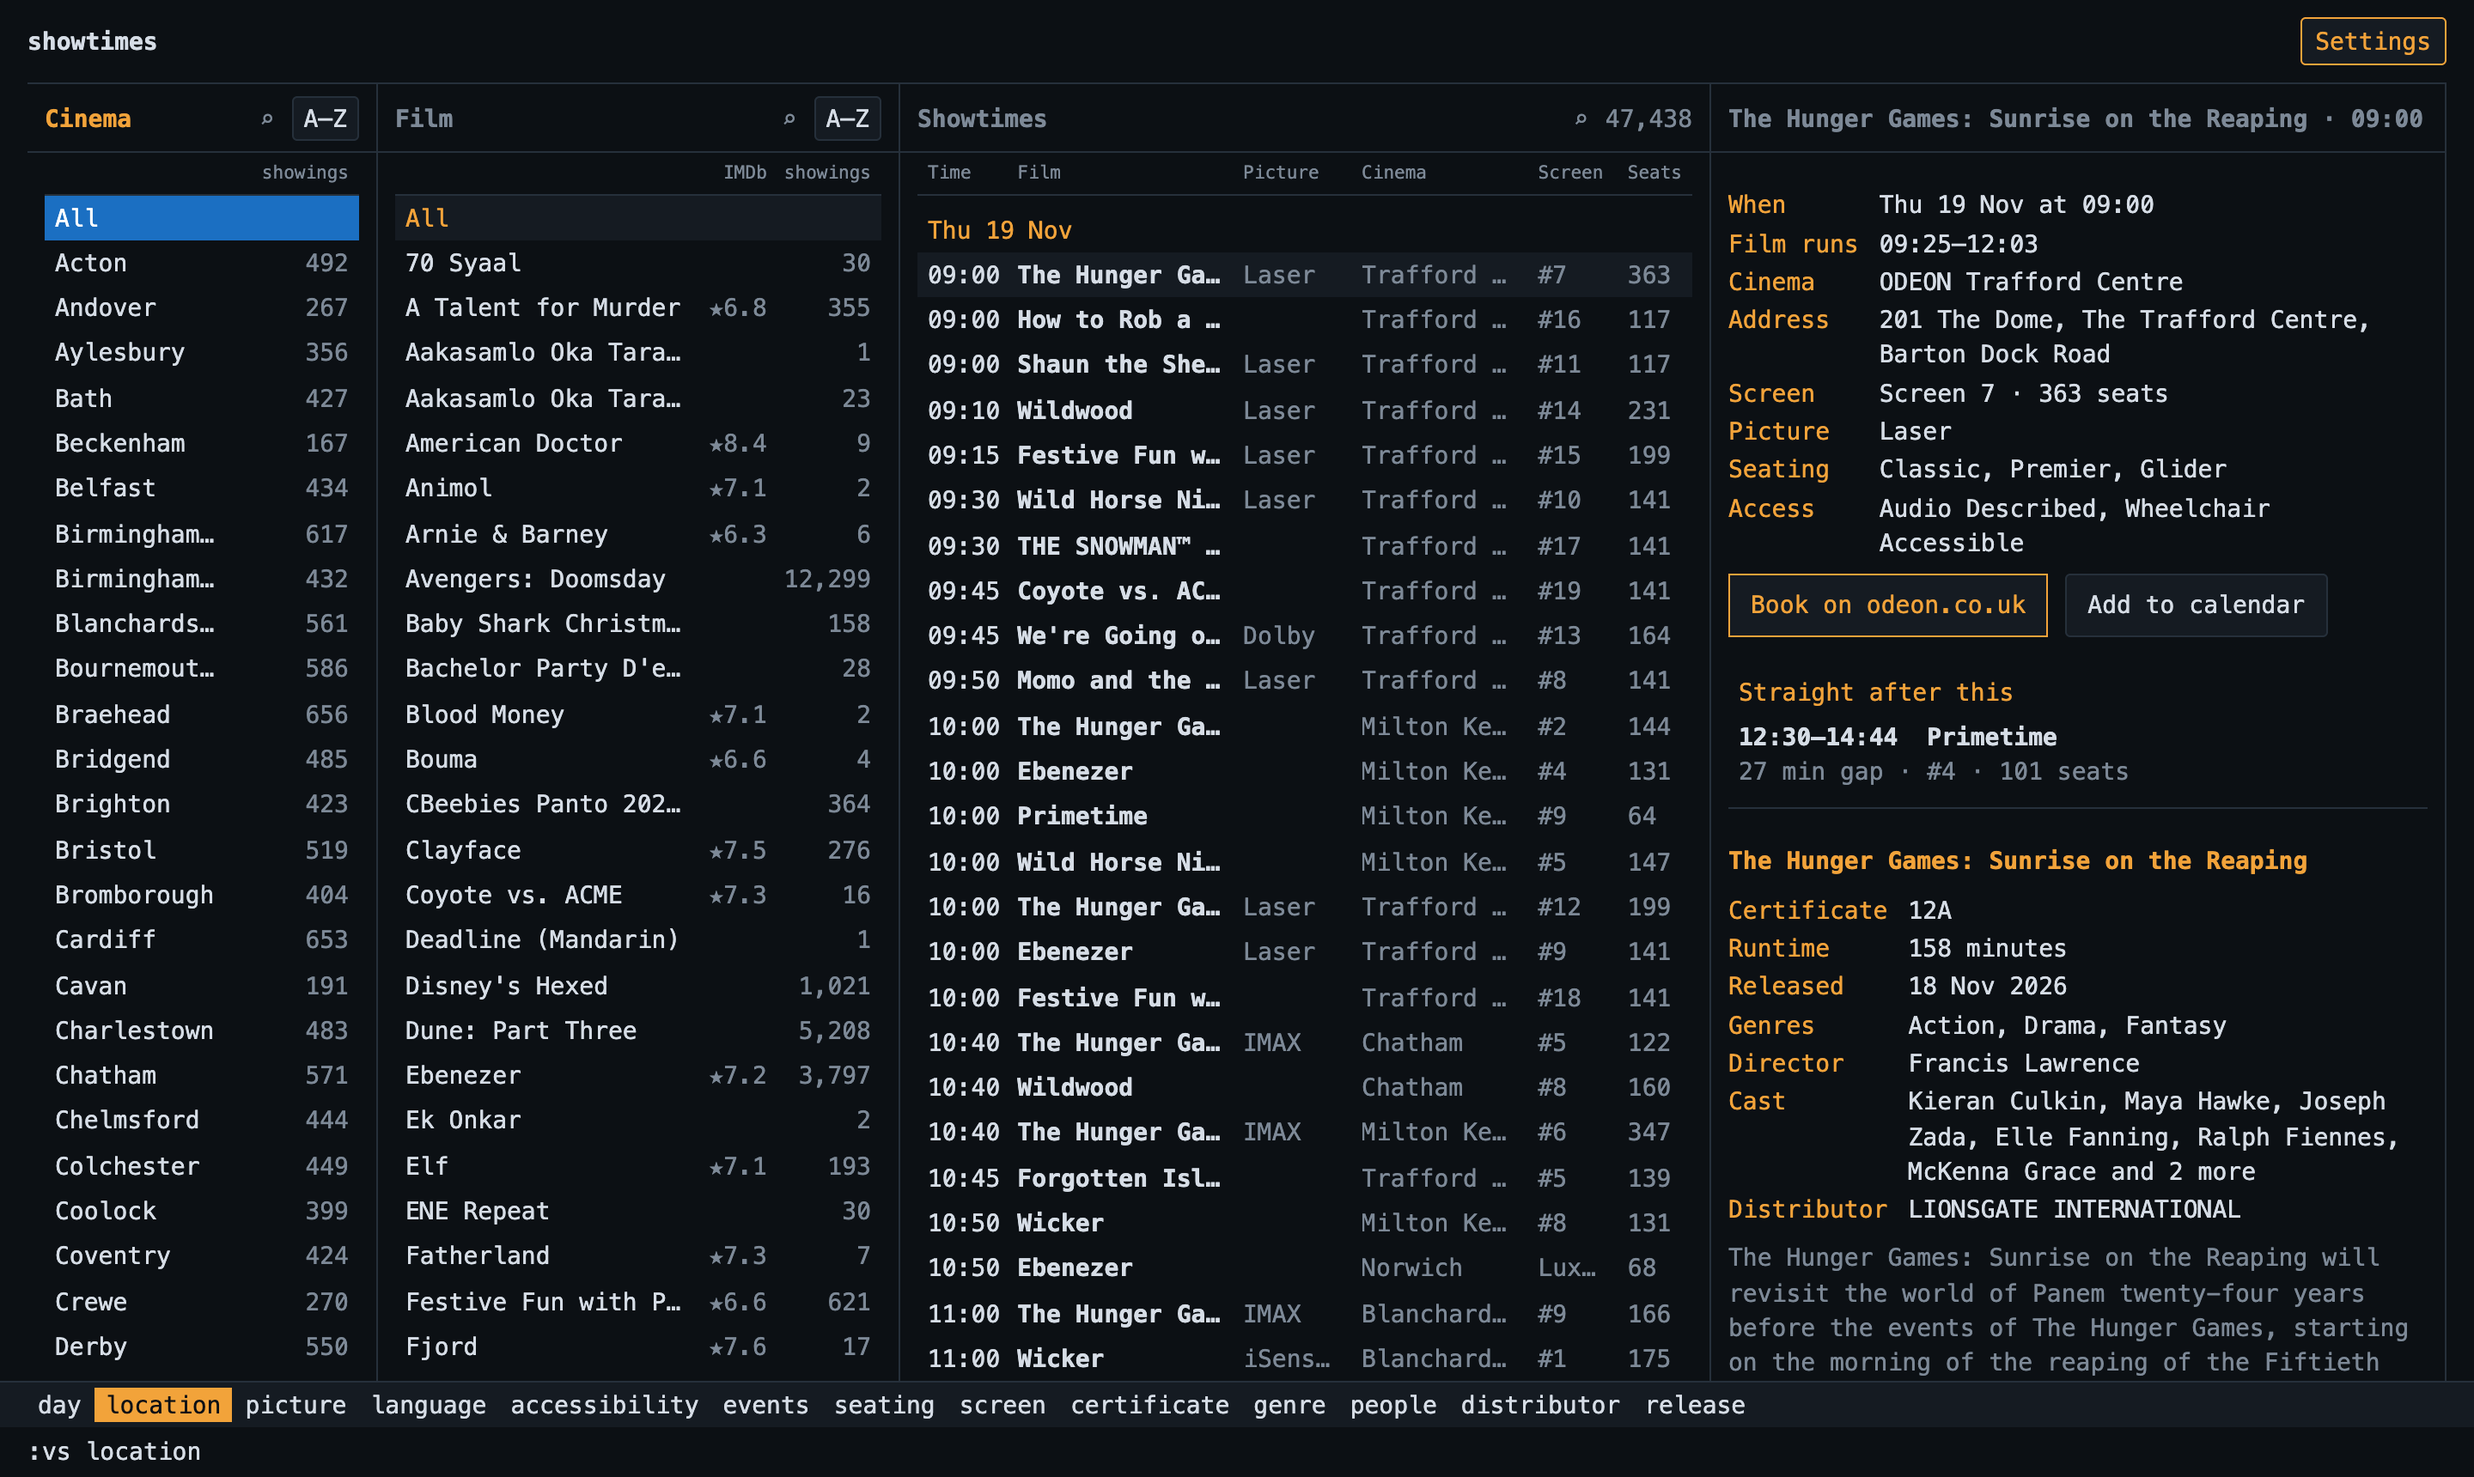
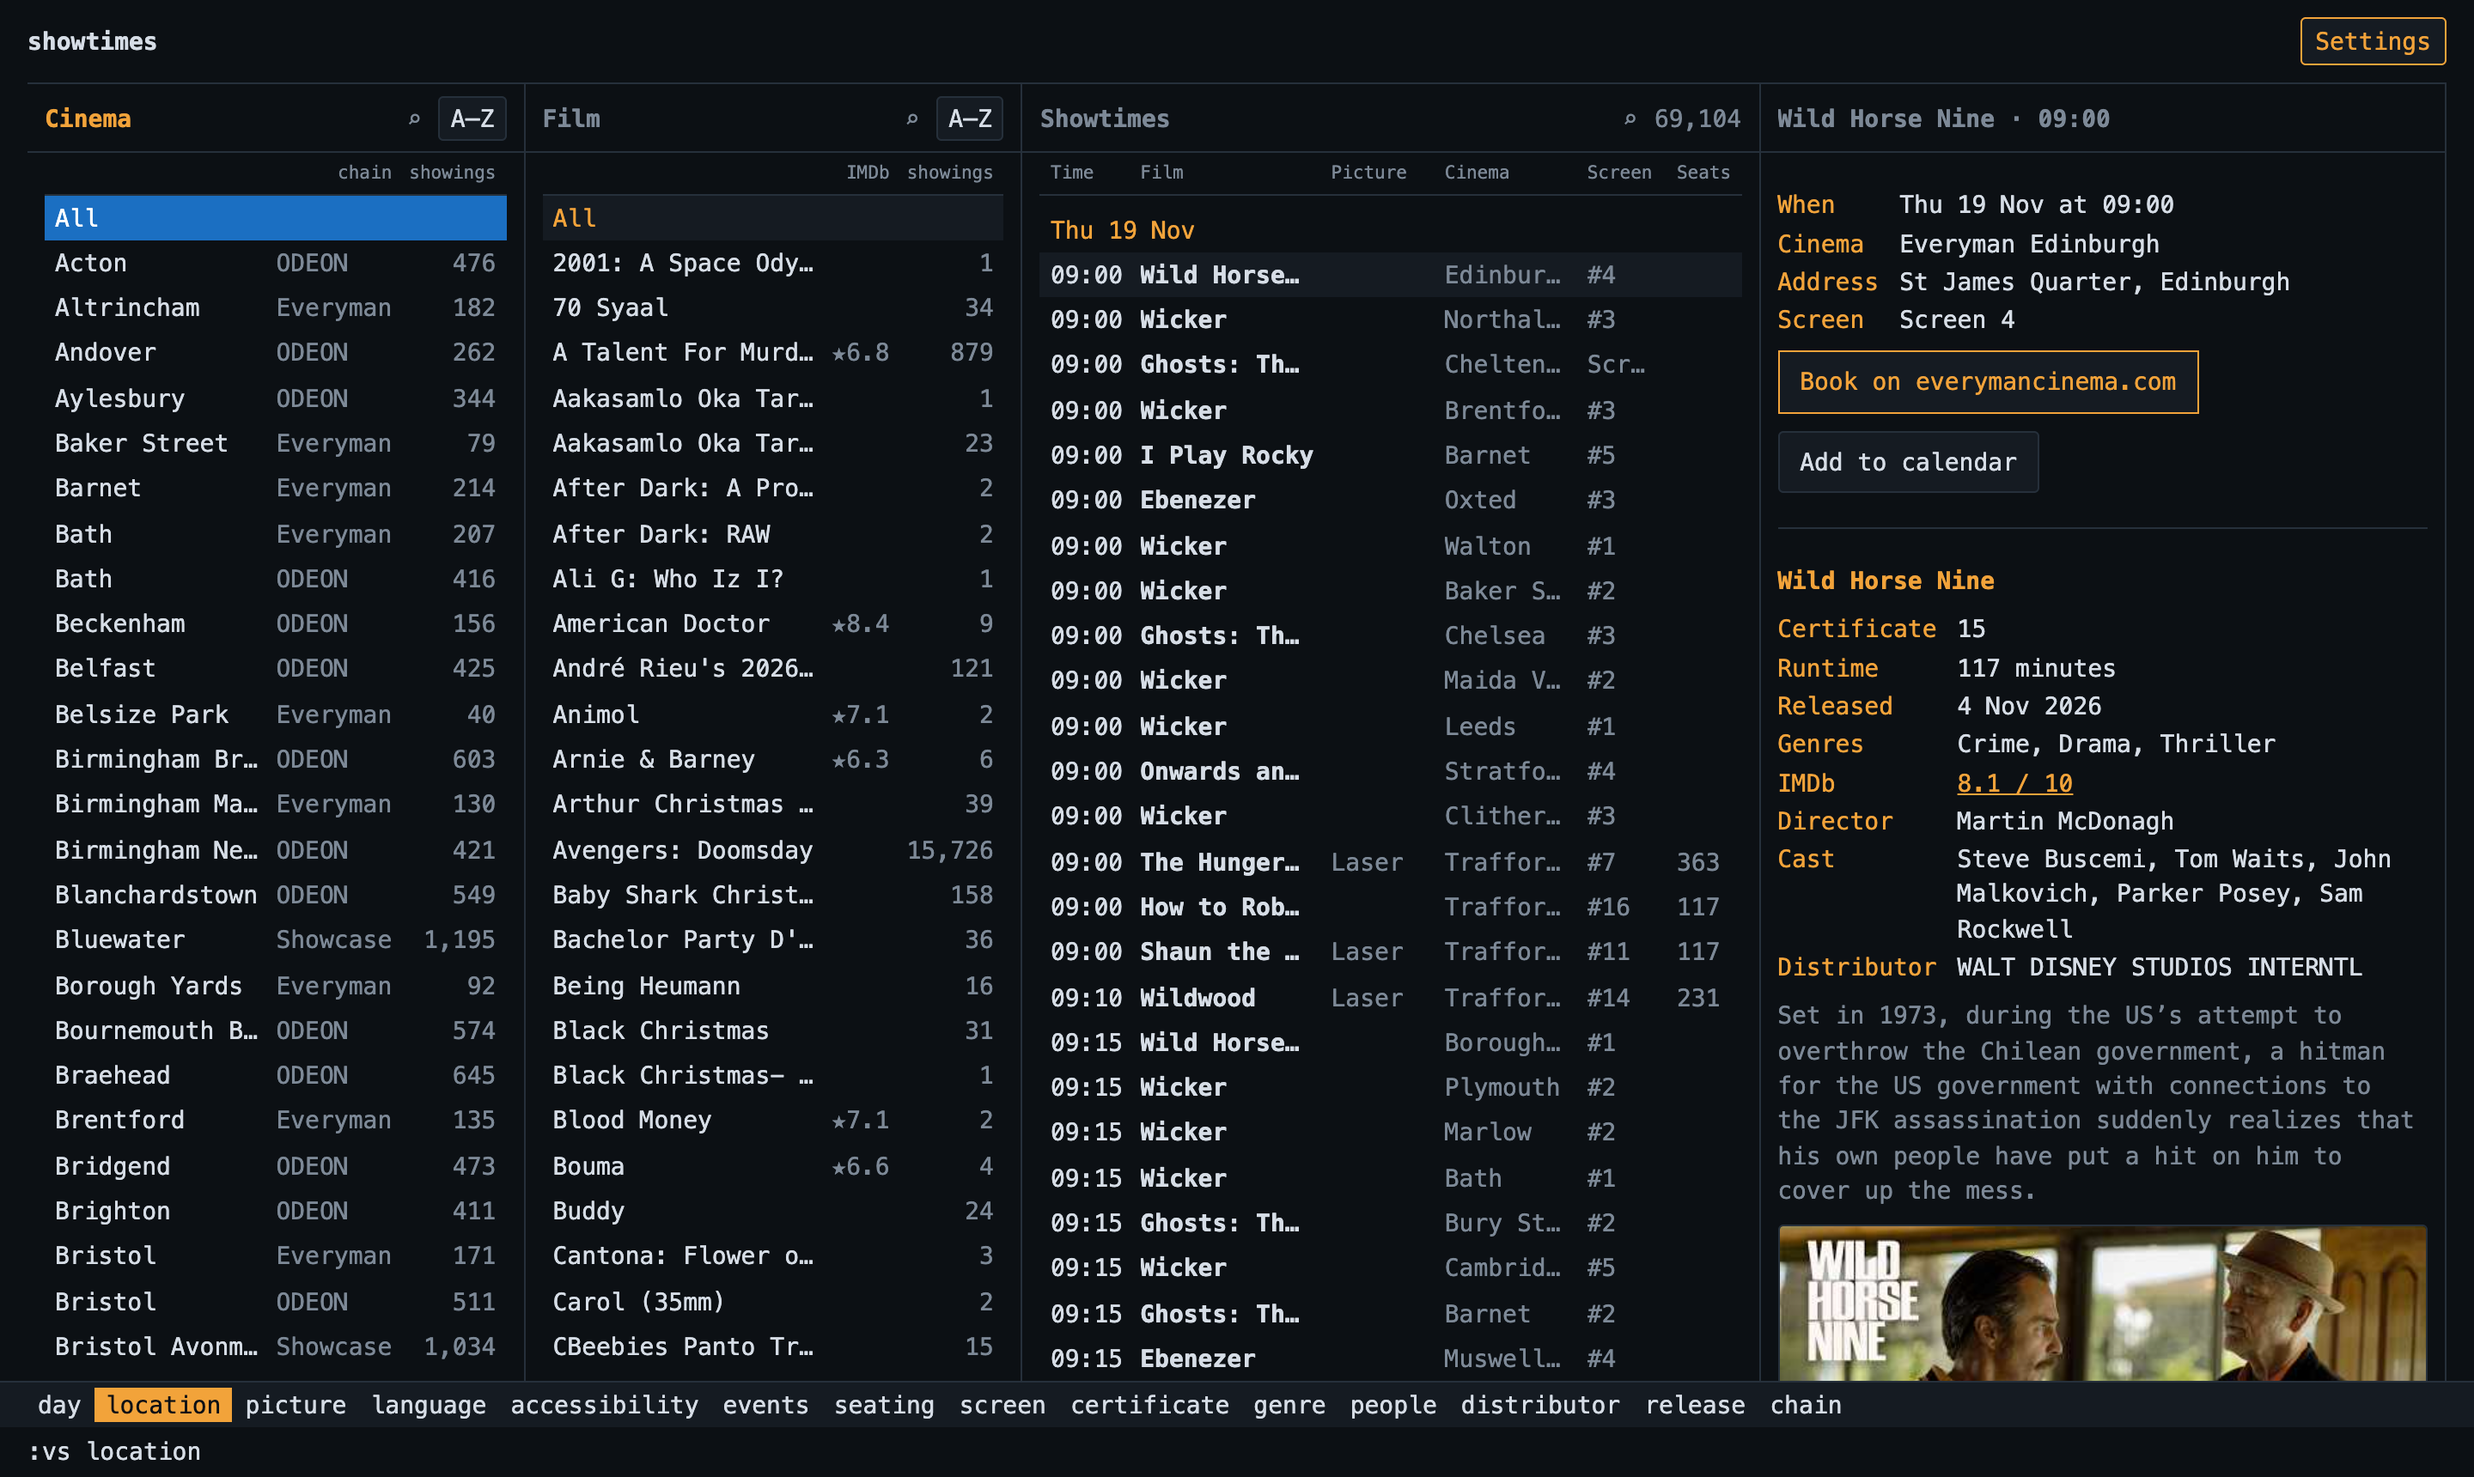
wip: merged films borrow what they lack; docs for three chains

diff --git a/site/src/export.test.ts b/site/src/export.test.ts
@@ -1,0 +1,34 @@
+import { readFileSync } from 'node:fs';
+import { DatabaseSync } from 'node:sqlite';
+import { expect, test } from 'vitest';
+import { everyman } from './chains/boxoffice';
+import { odeon } from './chains/odeon';
+import { exportListings } from './export';
+
+const store = readFileSync(new URL('../../ingest/src/showtimes_ingest/store.py', import.meta.url), 'utf8');
+const SCHEMA = /SCHEMA = """([\s\S]*?)"""/.exec(store)![1];
+
+function chain(cinema: string, film: [string, string, string | null, string], shows: number) {
+  const sqlite = new DatabaseSync(':memory:');
+  sqlite.exec(SCHEMA);
+  sqlite.prepare("INSERT INTO cinemas VALUES (?, 'Somewhere', 1, '{\"city\":\"Bath\",\"postcode\":\"BA1 1SS\"}', NULL, NULL)").run(cinema);
+  sqlite.prepare("INSERT INTO films VALUES (?, ?, NULL, '', NULL, '[]', '[]', '', ?, ?)").run(film[0], film[1], film[3], film[2]);
+  const add = sqlite.prepare("INSERT INTO screenings VALUES (?, ?, ?, '2026-11-20', ?, '18:00', NULL, NULL, 'Screen 1', '1', '[]', '[]', 0)");
+  for (let n = 0; n < shows; n += 1) add.run(cinema, `s${n}`, film[0], `2026-11-20T18:0${n}:00Z`);
+  return sqlite;
+}
+
+test("a film two chains list is one film, with the busier listing's own details and the other's to fill the gaps", () => {
+  const data = exportListings([
+    { chain: odeon, sqlite: chain('155', ['HO1', 'Dune', 'https://www.youtube.com/watch?v=aaaaaaaaaaa', 'Sand.'], 1) },
+    { chain: everyman, sqlite: chain('X1', ['6272', 'DUNE', 'https://m.example/dune.mp4', ''], 3) },
+  ]);
+  expect(data.films).toHaveLength(1);
+  const [film] = data.films;
+  expect(film.id).toBe('everyman-6272'); // more showings
+  expect(film.synopsis).toBe('Sand.'); // borrowed
+  expect(film.trailer).toBe('https://www.youtube.com/watch?v=aaaaaaaaaaa'); // the one that plays in the page
+  const filmIds = new Set(data.rows.map((row) => data.values[row[2]]));
+  expect([...filmIds]).toEqual(['everyman-6272']); // both chains' showings point at it
+  expect(data.chains.map((each) => each.id)).toEqual(['odeon', 'everyman']);
+});

diff --git a/site/src/export.ts b/site/src/export.ts
@@ -63,10 +63,22 @@ export function exportListings(sources: Source[], only?: Set<string>): Data {
     const main = group.reduce((best, film) => ((showings.get(film.id) ?? 0) > (showings.get(best.id) ?? 0) ? film : best));
     for (const film of group) {
       merged.set(film.id, main.id);
+      // Whatever the chosen listing lacks, another may have: ratings, a synopsis, the cast.
       main.imdb ??= film.imdb;
       main.imdbId ??= film.imdbId;
       main.metacritic ??= film.metacritic;
+      main.runtime ??= film.runtime;
+      main.release ??= film.release;
+      main.trailer ??= film.trailer;
+      main.certificate ||= film.certificate;
+      main.synopsis ||= film.synopsis;
+      main.distributor ||= film.distributor;
+      if (!main.genres.length) main.genres = film.genres;
+      if (!main.people.length) main.people = film.people;
     }
+    // A YouTube trailer plays in the page; another chain's video file only links out.
+    const playable = group.find((film) => film.trailer && /youtu\.?be/.test(film.trailer));
+    if (playable) main.trailer = playable.trailer;
     return main;
   });
   const film = (chain: Chain, id: string) => merged.get(own(chain, id)) ?? own(chain, id);

diff --git a/site/src/queries.test.ts b/site/src/queries.test.ts
@@ -151,6 +151,7 @@ describe('queries', () => {
     expect(found(['film']).counts.film).toEqual({ 'odeon-F1': 3, 'odeon-F2': 1, 'odeon-F4': 3, 'odeon-F5': 1 });
     expect(q.film(db, 'odeon-F1-IE')).toBeNull();
     expect(q.film(db, 'odeon-F4')!.imdb).toBe(7.1);
+    expect(q.film(db, 'odeon-F1')!.runtime).toBe(155); // the edition with more showings keeps its own
     // The film is an event at cinema 001 too, though only cinema 155's showings carry the tag.
     db = q.open(exportListings([{ chain: odeon, sqlite }], new Set(['odeon-001'])));
     expect(found(['film'], {}, quiet).counts.film).toEqual({ 'odeon-F1': 2 });

diff --git a/README.md b/README.md
@@ -13,8 +13,9 @@ what the others leave, and the matching showtimes and their details stay in
 view. Nothing is booked here: each showing links to its cinema's own booking
 page and can be added to your calendar.
 
-The listings come from cinema chains, each through an adapter of its own.
-ODEON is the first; [adding a chain](#adding-a-chain) is a module on each side.
+The listings come from cinema chains, each through an adapter of its own:
+ODEON, Everyman and Showcase so far. [Adding a chain](#adding-a-chain) is a
+module on each side.
 
 ![The site as its link opens it: the Cinema and Film columns, every showtime, and the first showtime's details with its double bills and the film's synopsis](docs/screenshots/desktop.png)
 
@@ -25,8 +26,9 @@ ODEON is the first; [adding a chain](#adding-a-chain) is a module on each side.
 2. **Choose your columns.** Settings lists the columns you show, left to right;
    move or remove each, and add others: Day (with Today and This weekend), Film,
    Cinema, Location, Picture, Language, Accessibility, Events, Seating, Screen
-   (biggest first), Certificate, Genre, People, Distributor and Release (out now or
-   opening soon).
+   (biggest first), Certificate, Genre, People, Distributor, Release (out now or
+   opening soon) and Chain. With more than one chain, the Cinema column says whose
+   each cinema is.
 3. **Narrow it down.** Pick something in any column. Every column shows how many
    showings each choice would leave, and **All** at the top of each takes a choice
    back. Search a column with `/`, narrow it with `:filter`, and order it A–Z, by
@@ -96,7 +98,7 @@ the site lists all of this.
 
 | Command | Does |
 | --- | --- |
-| `:vs {column}` | Split: add a column (day, film, cinema, location, picture, language, access, events, seating, screen, cert, genre, people, distributor, release) |
+| `:vs {column}` | Split: add a column (day, film, cinema, location, picture, language, access, events, seating, screen, cert, genre, people, distributor, release, chain) |
 | `:q :close` | Close the column |
 | `:only` | Close every other column |
 | `:sort :sort n :sort rating` | Order a column A–Z, by showings, or (films) by rating |
@@ -132,8 +134,8 @@ Everything also works by clicking or tapping.
 
 There is no server. A GitHub Actions workflow fetches each chain's listings into
 a SQLite file of its own, on that chain's schedule. The site is plain files on
-GitHub Pages; the browser downloads the listings once (under 1 MB, about 200 kB
-with London only) and keeps them in memory, so every key press is answered at once.
+GitHub Pages; the browser downloads the listings once (about 2 MB, 300 kB with
+London only) and keeps them in memory, so every key press is answered at once.
 
 ### How it is put together
 
@@ -148,29 +150,54 @@ with London only) and keeps them in memory, so every key press is answered at on
 A chain's stored file stays its raw record, so how it reads can change at the
 next build without fetching anything again.
 
-**ODEON** publishes each week's listings on a Tuesday, so its check runs hourly
-on Tuesdays and Wednesdays; once the week is stored a check contacts nobody. When
-the file changes the workflow calls Deploy, which builds the new listings into
-the site. ODEON refuses requests from cloud providers' addresses, GitHub's runners
+### The chains
+
+| Chain | How its listings are read | Cinemas | Seat counts |
+| --- | --- | --- | --- |
+| ODEON | Vista's API, with the guest token its website gives a browser | about 110, UK and Ireland | yes, from seat plans, fetched once per screen |
+| Everyman | Webedia's boxoffice API, plain requests (`chains/boxoffice.py`) | about 50 | no |
+| Showcase | the same platform and adapter as Everyman | 16 | no |
+
+UK chains publish each Friday-to-Thursday week by its Tuesday, so every chain is
+checked hourly on Tuesdays and Wednesdays: one request asks whether the week's
+last day is out, and once a chain's week is stored its check contacts nobody.
+When a file changes the workflow calls Deploy, which builds the new listings into
+the site. Everyman and Showcase are asked for three months ahead, in about 20 and
+12 requests a week.
+
+ODEON refuses requests from cloud providers' addresses, GitHub's runners
 included, so its traffic goes through a Tailscale exit node on a home network
 (`scripts/via-tailnet.sh`). Nothing else uses it.
+
+Chains looked at and left out, as their listings cannot be read without getting
+round something their sites put in the way: Cineworld and Curzon refuse requests
+that do not come from a browser, and Vue and Picturehouse hand out a session
+token first. Each would need its operator's agreement or a decision to work
+that way.
 
 ### Adding a chain
 
 1. **Ingest:** a package in `ingest/src/showtimes_ingest/chains/<chain>/` that
    writes the shared schema (`store.py`) and offers what `chains/__init__.py`
    lists: `NAME`, `check`, `ingest`, `settled_reason` and `search_title`. Add it
-   to `CHAINS` there, with tests against a fake of the chain.
+   to `CHAINS` there, with tests against a fake of the chain. A chain read with
+   plain requests can use `http.Client` and the weekly check in `weekly.py`, as
+   Everyman and Showcase do; a chain on a platform another already uses needs
+   only its name and website (`chains/everyman/`).
 2. **Export:** a module in `site/src/chains/<chain>.ts` implementing `Chain`
    (`chain.ts`): its name, booking link, cinema names and towns, how its tags,
    seats and distributors read, which showings are special events, and how far
    its schedule is published. Add it to `CHAINS` in `index.ts`.
-3. **Workflow:** an ingest job for the chain on its own schedule, publishing
-   `data/<chain>.sqlite` with `scripts/listings.sh upload <chain>`. Deploy builds
-   every published file into the site.
+3. **Workflow:** a chain read with plain requests joins the loop in the `chains`
+   job of `ingest.yml`, which runs `scripts/ingest-chain.sh` for each; one that
+   needs more (a browser, the tailnet) gets a job of its own, as ODEON has. Each
+   publishes `data/<chain>.sqlite`, and Deploy builds every published file into
+   the site.
 
-Check first that the chain's terms allow it, and keep its traffic to what its
-schedule needs: one ingest per published week, no retry loops.
+Check first that the chain's terms allow it, read only what its own website
+reads, say who is asking (`http.USER_AGENT`), and keep its traffic to what its
+schedule needs: one ingest per published week, a pause between requests, no
+retry loops.
 
 ### Repository settings
 
@@ -181,6 +208,7 @@ schedule needs: one ingest per published week, no retry loops.
 | Variable | `TAILSCALE_EXIT_NODE` | Name of the exit node device |
 | Variable | `ODEON_CINEMAS` | Optional. ODEON site IDs to store, comma-separated; empty stores every cinema |
 | Variable | `ODEON_INGEST` | Optional. `false` pauses ODEON's schedule |
+| Variable | `CHAINS_INGEST` | Optional. `false` pauses the other chains' schedule |
 
 Start an ingest by hand:
 

diff --git a/CLAUDE.md b/CLAUDE.md
@@ -1,6 +1,6 @@
 # Agent notes
 
-- A cinema listings finder for any chain; ODEON is the first. Two parts: `ingest/` (Python, uv)
+- A cinema listings finder for any chain: ODEON, Everyman and Showcase so far. Two parts: `ingest/` (Python, uv)
   fetches each chain into its own SQLite file (`data/<chain>.sqlite`); `site/` (Vite, TypeScript,
   no UI framework) is a static page that holds the listings in memory. Its build
   (`npm run listings`) exports every chain's file into JSON documents (every cinema, and Greater
@@ -24,6 +24,12 @@
 - Each chain's file is both what the site shows and its ingest's only state between runs
   (release week, run history, screen sizes). It is published as `<chain>.sqlite.gz` on the
   `data` release, never committed.
+- Read a chain only as its own website does, with plain requests that say who is asking
+  (`http.USER_AGENT`); never get round what a site puts in the way of automated clients (a
+  bot check, a challenge, a session token handed out first). That is why Cineworld, Curzon, Vue
+  and Picturehouse are not chains here. Everyman and Showcase share one adapter for Webedia's
+  boxoffice platform (`chains/boxoffice.py`, `site/src/chains/boxoffice.ts`); the plain-request
+  chains share the weekly check (`weekly.py`) and the `chains` job in the Ingest workflow.
 - Keep every chain's traffic minimal: one ingest per published week, no retry loops, and never
   fetch per-screening live data. Tests use a fake of each chain. ODEON's traffic goes through
   the owner's tailnet (`scripts/via-tailnet.sh`); its tailnet hostname and tag are set in the
